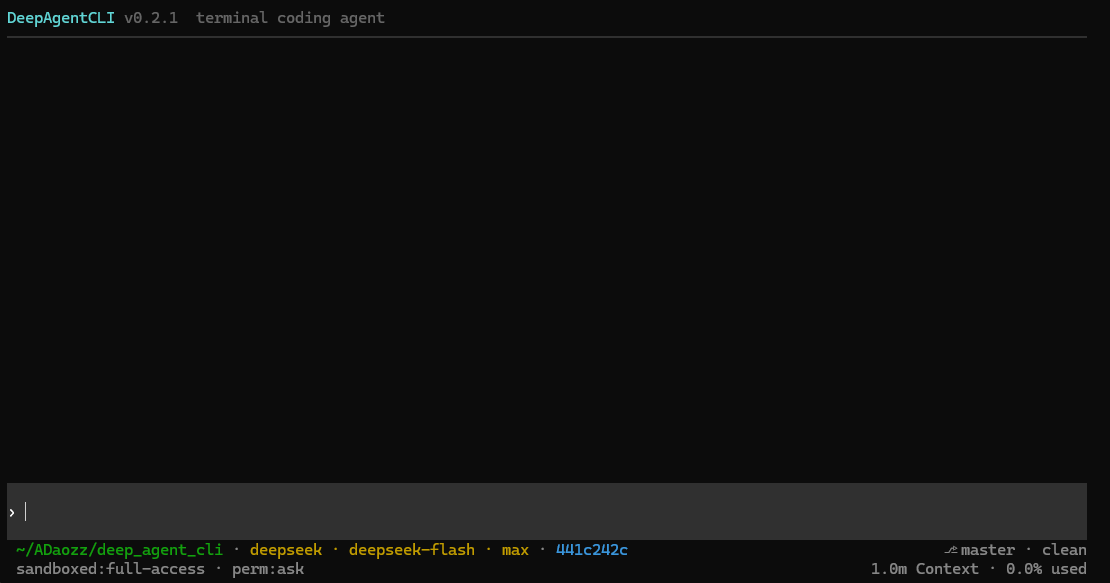
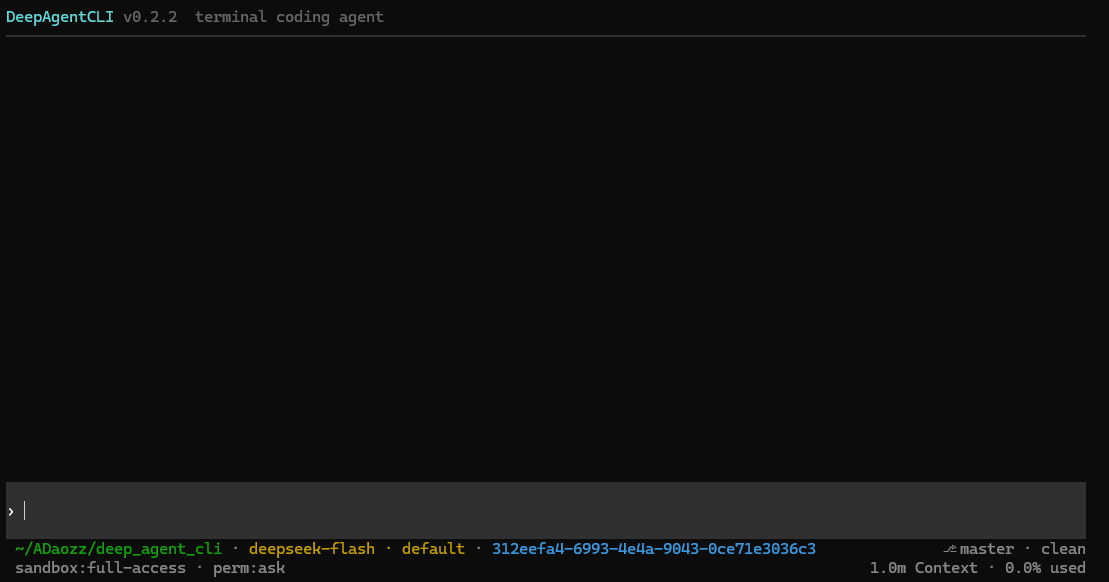
修复 TERM=dumb 下转录区宽度固定为 80 列，发布 v0.2.2
- _capture 创建 Rich Console 时同时传入 height，避免 TERM=dumb/unknown 时忽略显式宽度
- 新增不同 TERM 下按请求宽度折行的回归测试
- 补充 agent.compaction_threshold 配置说明
- 版本号升至 0.2.2，更新发布说明

Changed region(s): [[0.0, 0.9278, 0.7358, 0.9897], [0.0, 0.0, 0.3372, 0.0619], [0.0, 0.866, 0.0307, 0.8969]]

diff --git a/tests/test_cli_render.py b/tests/test_cli_render.py
@@ -14,6 +14,7 @@ import logging
 import re
 import pytest
 from rich.cells import cell_len
+from rich.text import Text
 from datetime import datetime, timezone
 from zoneinfo import ZoneInfo
 
@@ -838,6 +839,13 @@ def test_tool_render_is_compact_then_expandable() -> None:
     expanded = render_transcript(state, 80)
     assert "line 0" in expanded
     assert "output lines hidden" not in expanded
+
+
+@pytest.mark.parametrize("term", ["dumb", "unknown", "xterm-256color"])
+def test_capture_uses_requested_width_on_any_term(monkeypatch, term) -> None:
+    monkeypatch.setenv("TERM", term)
+    rendered = [line.rstrip() for line in _plain(_capture(Text("x" * 150), 120)).splitlines()]
+    assert rendered == ["x" * 120, "x" * 30]
 
 
 @pytest.mark.parametrize("width", [60, 100])

diff --git a/agent/cli/rendering.py b/agent/cli/rendering.py
@@ -1044,6 +1044,8 @@ def _capture(renderable: Any, width: int) -> str:
         # an inherited NO_COLOR from the shell must not erase them.
         no_color=False,
         width=max(20, width),
+        # Rich ignores an explicit width on TERM=dumb/unknown unless height is also set.
+        height=25,
     )
     console.print(renderable)
     return stream.getvalue().rstrip("\n")

diff --git a/.github/release-notes.md b/.github/release-notes.md
@@ -1,26 +1,36 @@
-## v0.2.1 更新内容
+## v0.2.2 更新内容
 
-### 原生 SubAgent（PR #30）
+### 会话中文摘要（PR #33）
 
-- SubAgent 运行数量移至 `Working…` 所在状态行，输入框顶部恢复为空白，数量为零时隐藏。
-- 每次模型请求在系统提示词中动态注入当前日期（`yyyy-mm-dd`）和用户时区，主 Agent 与 SubAgent 均使用 `ui.timezone`，跨天后自动更新。
+- 新会话首次成功完成一轮后，后台额外请求一次中文标题（目标 12～25 个汉字），用于 `/resume`、`deep-agent resume` 列表和底栏；无摘要时显示 thread_id，选择项始终绑定真实会话 ID。
+- 标题生成使用独立客户端，不调用工具、不写入聊天历史、不计入 TPS、不阻塞输入；超时 10 秒且不重试，请求和结果均先脱敏并限长。
+- 历史会话不自动补全摘要；数据库初始化时自动补齐摘要列，已有记录保持不变。
 
-- 接入 Deep Agents 原生同步 `task` 和隔离 `CompiledSubAgent`。仅当问题可拆成多个独立、互不干扰的子问题时才应派生；默认最多同时运行 2 个子任务。
-- 子任务共享已验证的沙箱 Backend/Pool，使用 `allow`，不装载 MCP、人工输入或递归委派工具；父任务取消传播到子任务，任务结束不保留后台 SubAgent。
-- 模型 Profile 可继承主模型，思考强度 `default/null` 使用子模型原生默认；支持显式能力校验和独立客户端回收。
-- 每个 task 独立显示 SubAgent 卡片，展示任务描述、状态及可展开的完整返回结果，支持失败、取消和历史恢复；内部流仍隔离；独立 JSONL 执行摘要只记录任务起止、工具操作/状态/耗时及有界最终回答，不保存模型 Token、思考或原始工具输出；仅精确替换已知模型和 Tavily Key，支持有界、按父会话隔离的查询。
-- 现有用户配置不会自动覆盖；配置项和派生条件见 [配置参考](https://github.com/ADaozz/deep_agent_cli/blob/v0.2.1/docs/configuration.md#subagent-委派)。
+### 上下文压缩与超大请求恢复
 
-### TUI 输出与差异预览
+- 新增 `agent.compaction_threshold`，按模型上下文窗口比例触发自动压缩（取值大于 0 且不超过 1，省略时为 0.85，实际取其与 0.85 的较小值）。示例配置设为 0.60。
+- 新增请求体恢复中间件：工具结果中的内嵌媒体在请求前限制在约 2 MiB，优先保留最近的媒体；收到 HTTP 413 时移除剩余内嵌媒体、截短超长工具文本并重试一次。原始 checkpoint、用户消息和附件均不改动，修复超大工具结果导致会话无法继续的问题。
 
-- 修复长 CSS、中文等工具输出自动换行后超过折叠行数的问题。命令输出和普通工具的原始输出按终端实际显示行数保留末尾 4 行，标题与隐藏提示另计，`Ctrl+O` 仍可展开完整输出。
-- 连续编辑同一文件的合并 diff 以 `Edit N` 标明各次编辑，并注明行号相对于各自的替换片段；完整审阅也注明相对行号，避免将每次重新计数误读为文件行号倒序。
-- 补充自动换行、中文宽字符、流式输出及多次编辑的渲染回归测试，更新折叠规则文档。
+### 追加消息队列与中断发送
 
-### 会话与默认配置
+- 排队的 steering / follow-up 改为在独立区域逐条显示，可滚动查看，不再挤在状态栏中。
+- 有排队消息时 `Esc` 或 `Alt+Up` 将队列撤回到输入框，不中断当前任务；连续按两次 `Enter` 则中断当前任务并在停止后立即发送队列。
+- `Ctrl+B` 只负责展开 / 收起已发送的长消息。
 
-- 新建会话继承当前模型、推理强度、权限和沙箱配置。
-- 示例默认模型改为 DeepSeek Flash，同步首次启动测试的配置断言。
+### TUI 与状态栏
+
+- 长会话转录渲染改为增量复用未变化的单元，5000 块场景下 `render_document` P95 由约 220 ms 降至约 18 ms（PR #32）。
+- 底栏显示模型原始名称；推理强度选单始终把 `default` 放在首位；选择类弹窗精简冗余提示；沙箱模式显示为 `sandbox`。
+- `/status` 新增按模型统计的工具调用表（子智能体请求不计入主会话）。
+- 收到 SIGTERM / SIGHUP 时走正常退出流程并恢复终端模式，第二次信号立即退出；Git 改动数不再统计未跟踪文件。
+- 修复 `TERM=dumb` / `unknown` 终端（部分 IDE 内嵌终端、Emacs shell 等）下转录区固定按 80 列折行、忽略实际终端宽度的问题。
+- 精简内置提示词与 `ls` / `read_file` / `request_human_input` 工具说明，减少多余调用轮次。
+
+### 内部重构与依赖
+
+- 按领域边界拆分核心模块：模型、会话、运行控制、执行环境与启动装配各自独立，CLI 控制器通过显式依赖协作；不保留旧模块路径转发，直接引用内部模块的 Python 代码需按 [架构文档](https://github.com/ADaozz/deep_agent_cli/blob/v0.2.2/docs/architecture.md) 调整导入路径。
+- 新增 `RunMetrics` 与 `examples/benchmark.py`，用于对照 agent、cli、sandbox 耗时。
+- 升级依赖：`deepagents>=0.7.35`、`langchain-core>=1.7.7`、`langchain-openai>=1.7.4,<1.8.0`，同步提高 `langchain[mcp]`、`langgraph`、`langgraph-checkpoint-sqlite` 下限。
 
 ### 安装与升级
 
@@ -32,6 +42,6 @@ pipx install deep-agent-cli
 pipx upgrade deep-agent-cli
 ```
 
-已有用户配置不会自动覆盖。
+已有用户配置不会自动覆盖；如需调整压缩阈值，请手动在 `agent` 段加入 `compaction_threshold`。
 
-更多说明见 [README](https://github.com/ADaozz/deep_agent_cli#readme)、[终端界面](https://github.com/ADaozz/deep_agent_cli/blob/v0.2.1/docs/tui.md)和[配置参考](https://github.com/ADaozz/deep_agent_cli/blob/v0.2.1/docs/configuration.md)。
+更多说明见 [README](https://github.com/ADaozz/deep_agent_cli#readme)、[终端界面](https://github.com/ADaozz/deep_agent_cli/blob/v0.2.2/docs/tui.md)和[配置参考](https://github.com/ADaozz/deep_agent_cli/blob/v0.2.2/docs/configuration.md)。

diff --git a/docs/configuration.md b/docs/configuration.md
@@ -225,7 +225,10 @@ llm:
 agent:
   instructions: |
     优先使用中文回答。
+  compaction_threshold: 0.60
 ```
+
+`compaction_threshold` 是自动压缩上下文的触发比例，取值大于 0 且不超过 1，省略时为 0.85；实际使用此值与 0.85 中的较小值。仅在模型配置了 `context_window` 时生效，没有窗口信息时仍约在 170,000 tokens 触发。
 
 system prompt 按顺序由三部分组成：内置身份说明、`agent.instructions`、工作区根目录的 `AGENTS.md`（若存在）。启用 MCP 且注入工具时，构图阶段还会在末尾追加一段宿主运行与不可信数据说明。切换模型或权限模式时会重新读取 `AGENTS.md`。它在构图时确定，不包含环境快照。环境快照由中间件在每次模型调用时附到系统提示后面，不写入 checkpoint。它不是配置项。沙箱模式、工作区、HOME 或额外挂载变化后重新采集；恢复会话时按当前沙箱重新检查；切换模型不会因此重新探测。已给出的字段不要再查。
 

diff --git a/README.md b/README.md
@@ -19,7 +19,7 @@ OpenAI 兼容接口 · Bubblewrap
 
 在项目目录运行 `deep-agent` 进入交互式终端，用 `deep-agent resume` 恢复已有会话。要在其他 Python 程序里复用同一套运行核心，使用 [Python API](docs/library.md)。
 
-> 当前版本 **0.2.1**，处于早期开发阶段。稳定版前，配置、会话存储格式和 Python API 可能出现不兼容变更。
+> 当前版本 **0.2.2**，处于早期开发阶段。稳定版前，配置、会话存储格式和 Python API 可能出现不兼容变更。
 
 ## 能做什么
 
